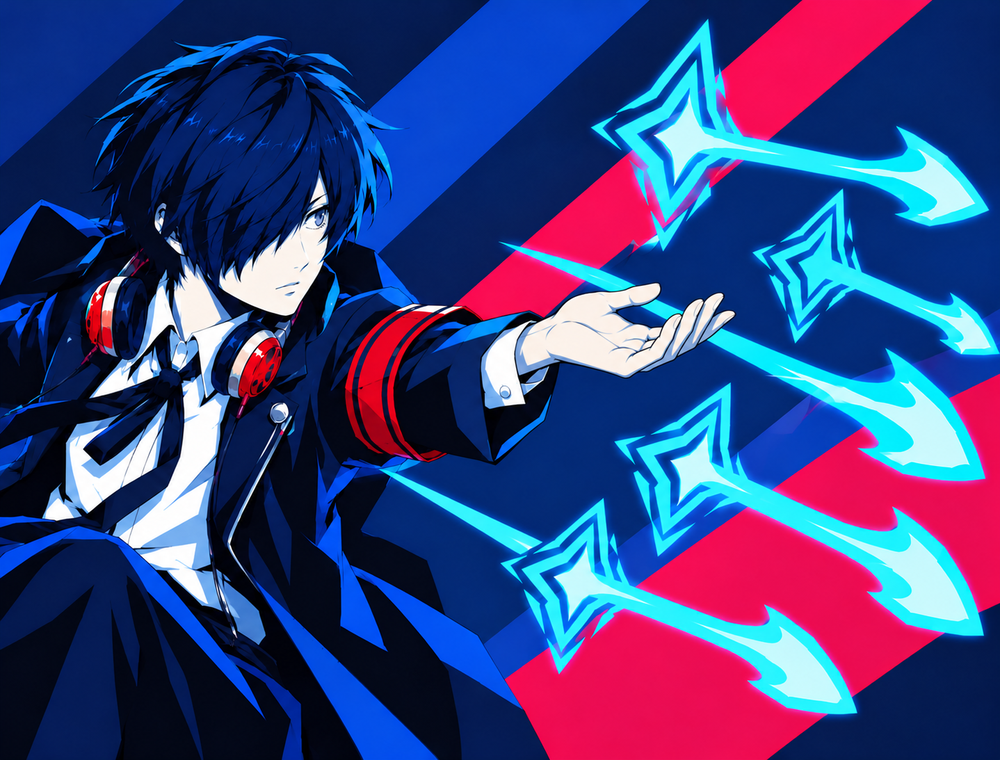
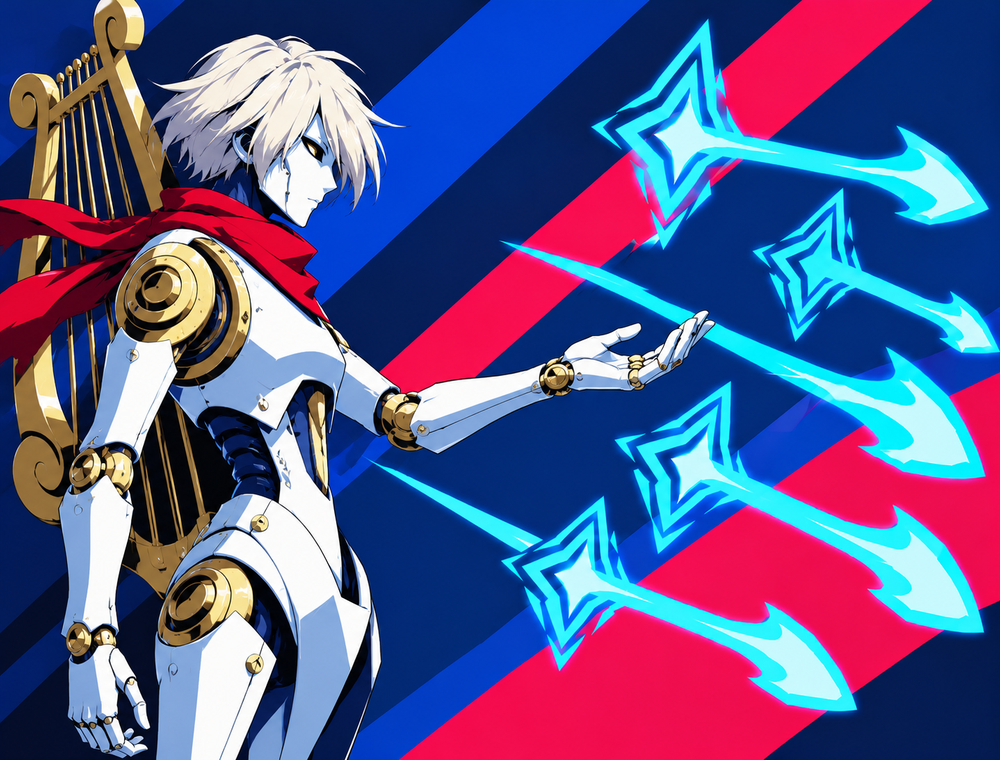
art: replace make it so caster with Orpheus

diff --git a/art/cards/v3/README.md b/art/cards/v3/README.md
@@ -1237,3 +1237,48 @@ Generate ONE opaque full-bleed landscape game card, aspect1000:760. Clean Person
 ```text
 Generate ONE opaque full-bleed landscape game card, aspect1000:760. Clean Persona 3 Reload sharp anime two-tone cel shading, navy/cobalt/cyan/icewhite majority, large flat diagonal background blocks, crisp outlines, no text, UI, borders, gradients, bloom or particles. Reference1 original composition only; reference2 style only, never copy its subjects. Keep face and main effect within central safe region x8-92%,y12-75%. COMPLETE CONCEPT RESET: Persona3 Dark Hour void transformation. One recognizable Makoto Yuki upper-body three-quarter silhouette on left dissolving along right edge into ONE LARGE hollow cyan butterfly cutout/negative-space portal. His face has a calm narrow eye and long navy fringe hiding other eye; neck headphones and black uniform identifiable. Half his chest and right shoulder become flat transparent-looking cyan glass planes with a DARK EMPTY HOLE showing the background through, conveying missing physical form. One large tilted blue tarot-card-shaped doorway behind, containing a simple crescent moon cutout, no lettering. Dramatic navy negative space, icy cyan silhouettes, muted Dark Hour yellow-green single diagonal. NO star head, orbit ring, generic glowing muscular figure, extra person or monster. Make transformation a distinctly Persona3 blue-butterfly/Velvet Room motif, simple iconic shapes readable as thumbnail.
 ```
+
+
+### 用户反馈后五张重置
+
+用户要求：所向无敌纯人格面具；追踪之刃贴近原图；剑圣修正姿势；如此甚好视线朝招式方向；虚空形态重置为P3特色。每张一版，尚待用户复审。对照：preview/five_fixes.png，左原图/中旧版/右新版。
+
+#### i_am_invincible
+
+源文件：C:\Users\kkk\ChatGPT-Accounts\Account2\codex\generated_images\01a148fe-57b1-7a43-ae27-1d97f4a3942e\exec-168603b8-cfc8-4887-801c-575fb444aeb8.png
+
+```text
+Generate ONE opaque full-bleed landscape game card, aspect1000:760. Clean Persona 3 Reload sharp anime two-tone cel shading, navy/cobalt/cyan/icewhite majority, large flat diagonal background blocks, crisp outlines, no text, UI, borders, gradients, bloom or particles. Reference1 original composition only; reference2 style only, never copy its subjects. Keep face and main effect within central safe region x8-92%,y12-75%. A single ORPHEUS Persona ONLY, slender white-and-gold mechanical humanoid, distinctive mechanical face, red scarf, golden lyre mounted on its back. Powerful upright half-body with arms spread, enveloped in an angular cyan invulnerable wireframe armor field. Centered broad triangular silhouette, cyan diagonal background. NO Makoto, human, secondary silhouette or enemy. Entire subject is the recognizable Persona, not a human in armor.
+```
+
+#### seeking_edge
+
+源文件：C:\Users\kkk\ChatGPT-Accounts\Account2\codex\generated_images\01a148fe-57b1-7a43-ae27-1d97f4a3942e\exec-853970fe-f333-4edf-ac4c-1ab2d1bd8791.png
+
+```text
+Generate ONE opaque full-bleed landscape game card, aspect1000:760. Clean Persona 3 Reload sharp anime two-tone cel shading, navy/cobalt/cyan/icewhite majority, large flat diagonal background blocks, crisp outlines, no text, UI, borders, gradients, bloom or particles. Reference1 original composition only; reference2 style only, never copy its subjects. Keep face and main effect within central safe region x8-92%,y12-75%. Match Reference1 closely: an UPSIDE DOWN elongated suspended figure, two legs extending upward out of top center, upside-down HEAD at lower center. Huge red-orange four-point blade/crosshair surrounds the head and shoulders, diagonal sharp edges extending left and right, two vertical red rails behind. Reinterpret figure as a dark blue mechanical Orpheus Persona with red scarf and small blue-white mechanical face, no Regent crown/hat. Preserve original inverted silhouette, composition and orange targeting-blade geometry. Not a horizontal laser through Makoto, not a normal hanging schoolboy. One Persona only. Dark navy and muted green background.
+```
+
+#### sword_sage
+
+源文件：C:\Users\kkk\ChatGPT-Accounts\Account2\codex\generated_images\01a148fe-57b1-7a43-ae27-1d97f4a3942e\exec-71bb9849-a7e2-435b-80b1-e5fff1b0b18a.png
+
+```text
+Generate ONE opaque full-bleed landscape game card, aspect1000:760. Clean Persona 3 Reload sharp anime two-tone cel shading, navy/cobalt/cyan/icewhite majority, large flat diagonal background blocks, crisp outlines, no text, UI, borders, gradients, bloom or particles. Reference1 original composition only; reference2 style only, never copy its subjects. Keep face and main effect within central safe region x8-92%,y12-75%. Makoto Yuki in a natural composed half-body swordsman stance, upright shoulders and torso in coherent three-quarter view, two hands TOGETHER gripping the hilt of ONE sword vertically in front of chest, elbows gently bent. No twisted arms, no stretched shoulder. Narrow calm grey-blue eye, long navy fringe covers other eye, slender oval face, small neutral mouth, black school blazer white shirt black tie red neck headphones red armband. Six slender cyan glass swords suspended around him in a clear arc echoing original large sword arrangement. No throne, enemy or other figure. Muted dark green diagonal stripe.
+```
+
+#### make_it_so
+
+源文件：C:\Users\kkk\ChatGPT-Accounts\Account2\codex\generated_images\01a148fe-57b1-7a43-ae27-1d97f4a3942e\exec-94d287a8-3e7e-4718-a744-dbe29aef33a9.png
+
+```text
+Edit this card illustration. Replace Makoto ENTIRELY with ONE recognizable Orpheus Persona: slender white and gold mechanical humanoid, mechanical white face, short pale hair, red scarf, gold lyre mounted behind its back. No human schoolboy, school uniform or headphones remain. Place Orpheus on left in clean SIDE PROFILE facing RIGHT, calm purposeful mechanical face looking along the projectiles. Natural coherent shoulder/elbow/wrist perspective: upper arm near torso, elbow bent about90degrees, forearm pointing to right parallel to picture plane, normal-size mechanical open palm gently releasing the spell. Avoid arm thrust toward camera or extreme foreshortening. Keep rightward cyan spell bolts and original overall left-subject/right-projectiles layout, deep navy/cobalt diagonal blocks and crimson stripe. Preserve crisp Persona3Reload cel shading, flat large shapes, opaque background, 1000:760 landscape composition. Exactly one Persona, two arms total; other arm relaxed by side. No extra people, monsters, text or UI.
+```
+
+#### void_form
+
+源文件：C:\Users\kkk\ChatGPT-Accounts\Account2\codex\generated_images\01a148fe-57b1-7a43-ae27-1d97f4a3942e\exec-947aa774-0dee-44ac-8533-7af8945ba950.png
+
+```text
+Generate ONE opaque full-bleed landscape game card, aspect1000:760. Clean Persona 3 Reload sharp anime two-tone cel shading, navy/cobalt/cyan/icewhite majority, large flat diagonal background blocks, crisp outlines, no text, UI, borders, gradients, bloom or particles. Reference1 original composition only; reference2 style only, never copy its subjects. Keep face and main effect within central safe region x8-92%,y12-75%. COMPLETE CONCEPT RESET: Persona3 Dark Hour void transformation. One recognizable Makoto Yuki upper-body three-quarter silhouette on left dissolving along right edge into ONE LARGE hollow cyan butterfly cutout/negative-space portal. His face has a calm narrow eye and long navy fringe hiding other eye; neck headphones and black uniform identifiable. Half his chest and right shoulder become flat transparent-looking cyan glass planes with a DARK EMPTY HOLE showing the background through, conveying missing physical form. One large tilted blue tarot-card-shaped doorway behind, containing a simple crescent moon cutout, no lettering. Dramatic navy negative space, icy cyan silhouettes, muted Dark Hour yellow-green single diagonal. NO star head, orbit ring, generic glowing muscular figure, extra person or monster. Make transformation a distinctly Persona3 blue-butterfly/Velvet Room motif, simple iconic shapes readable as thumbnail.
+```
